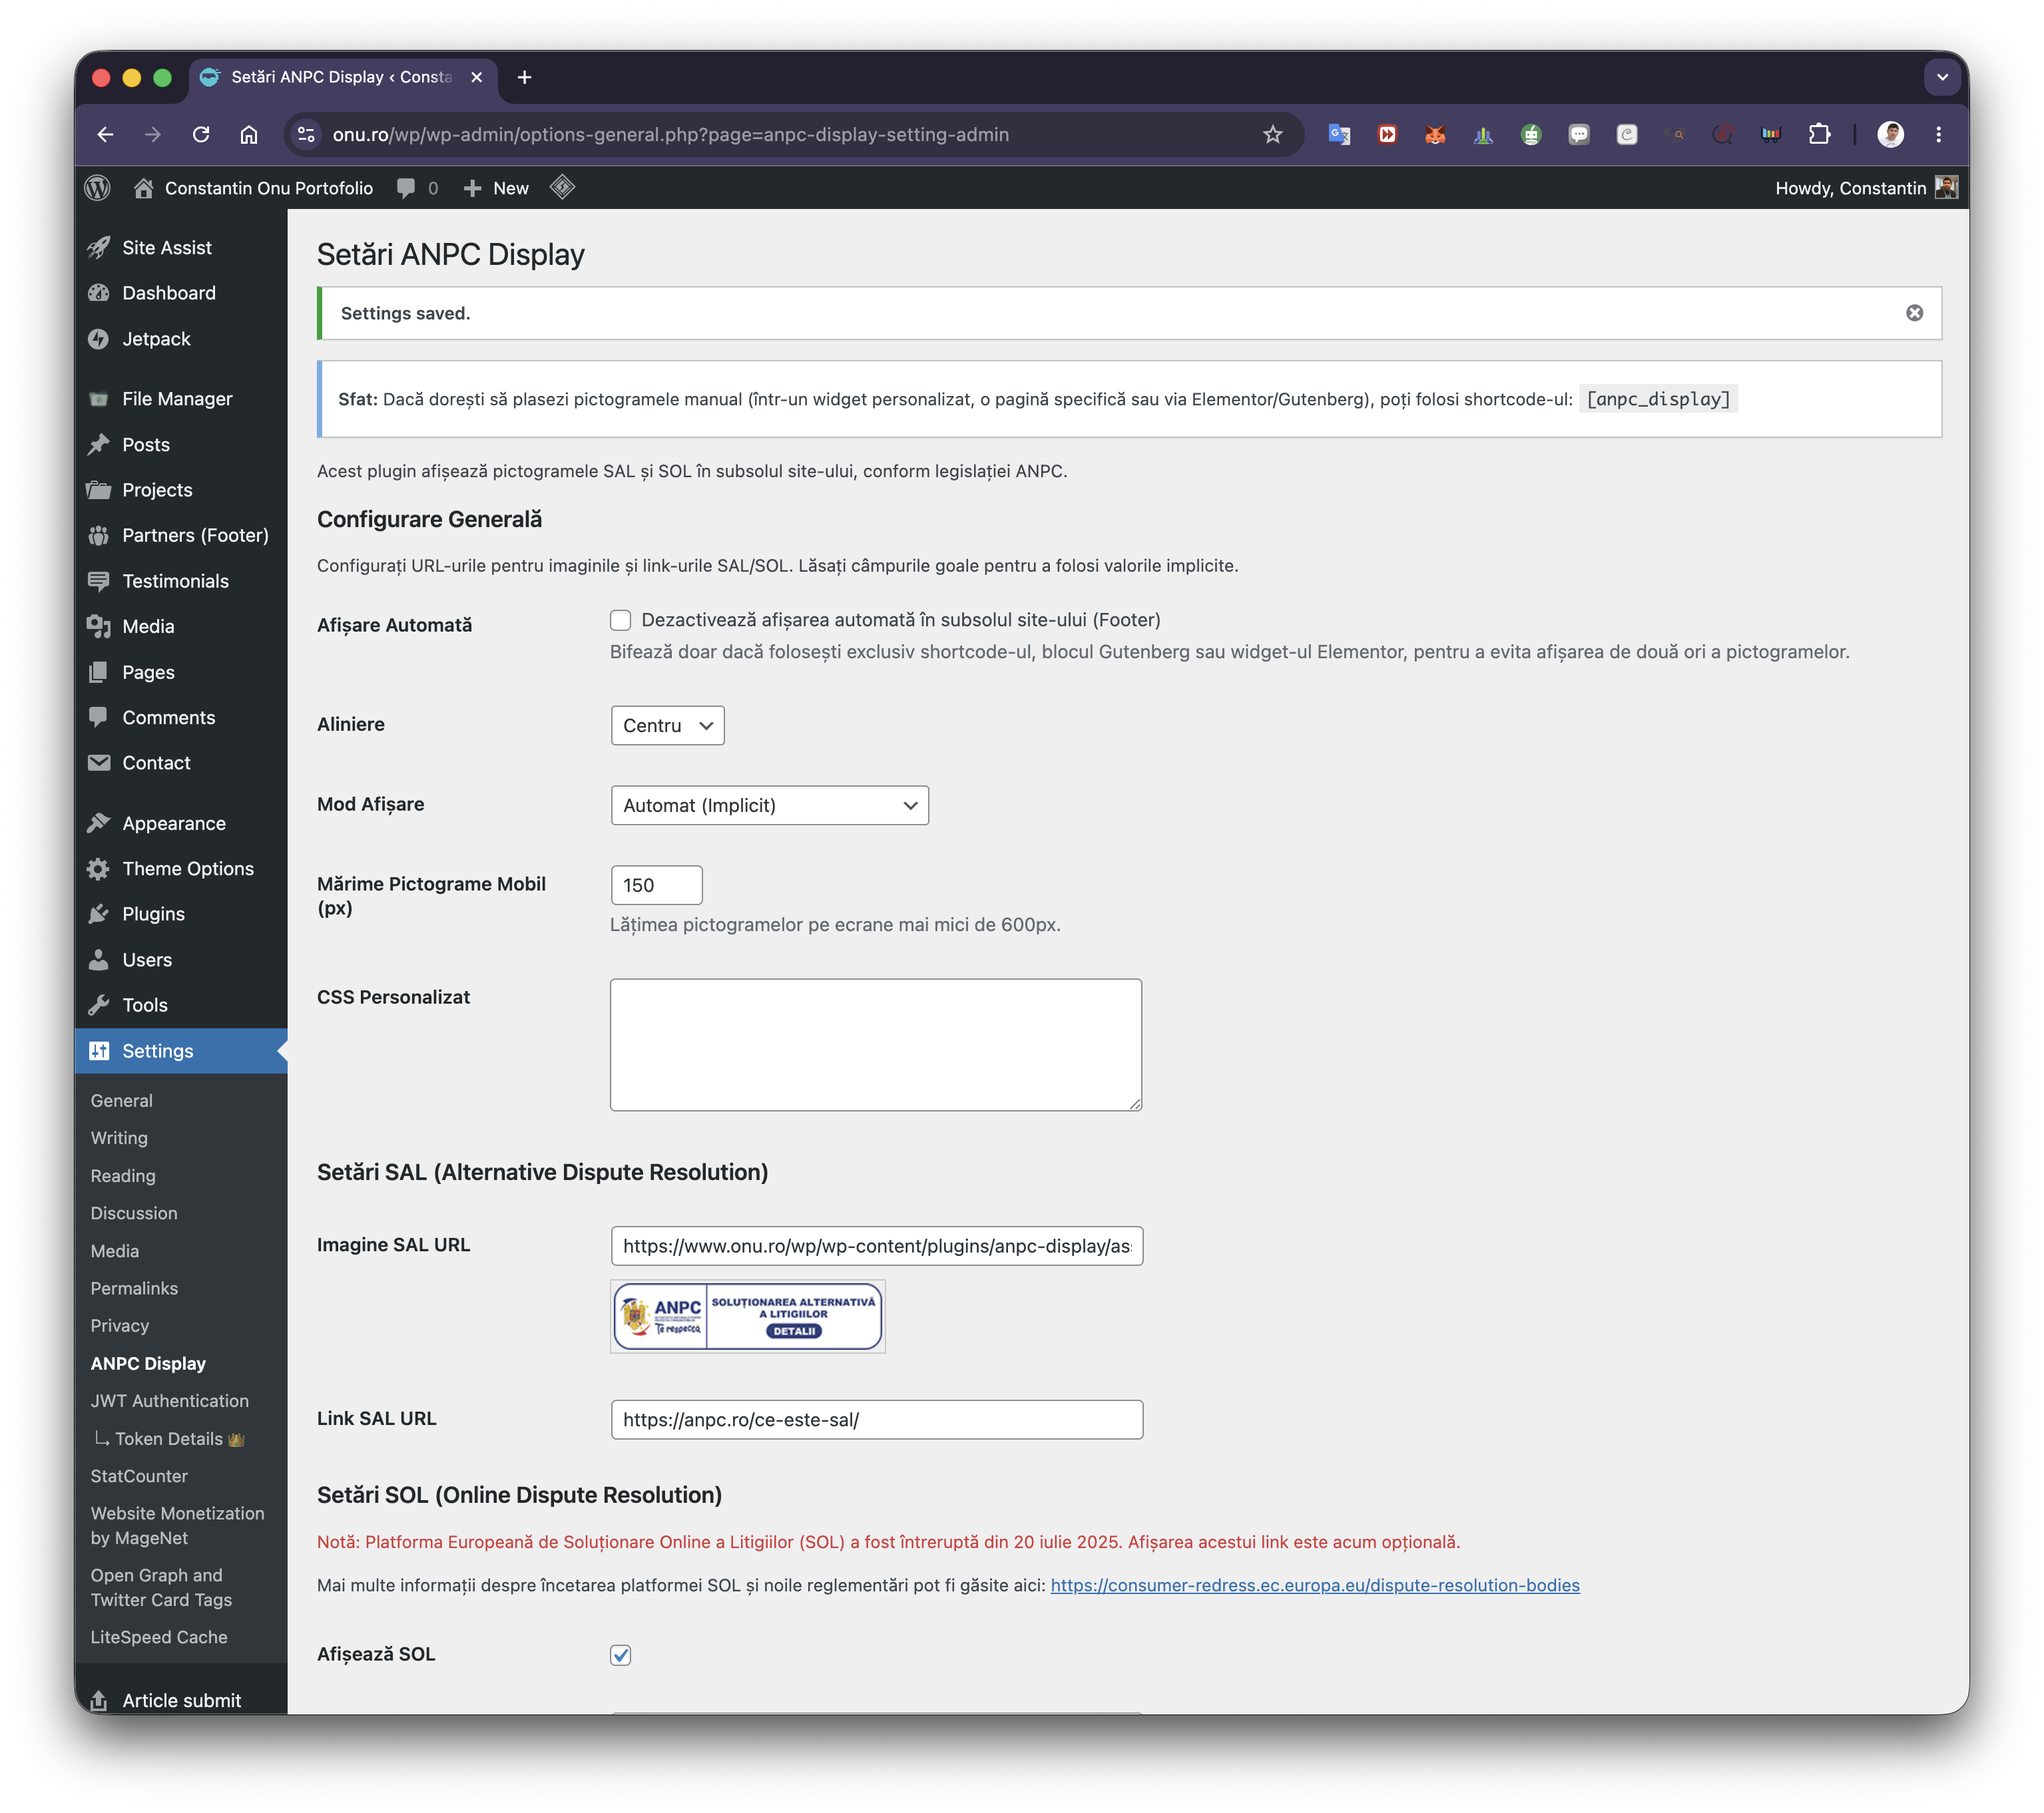
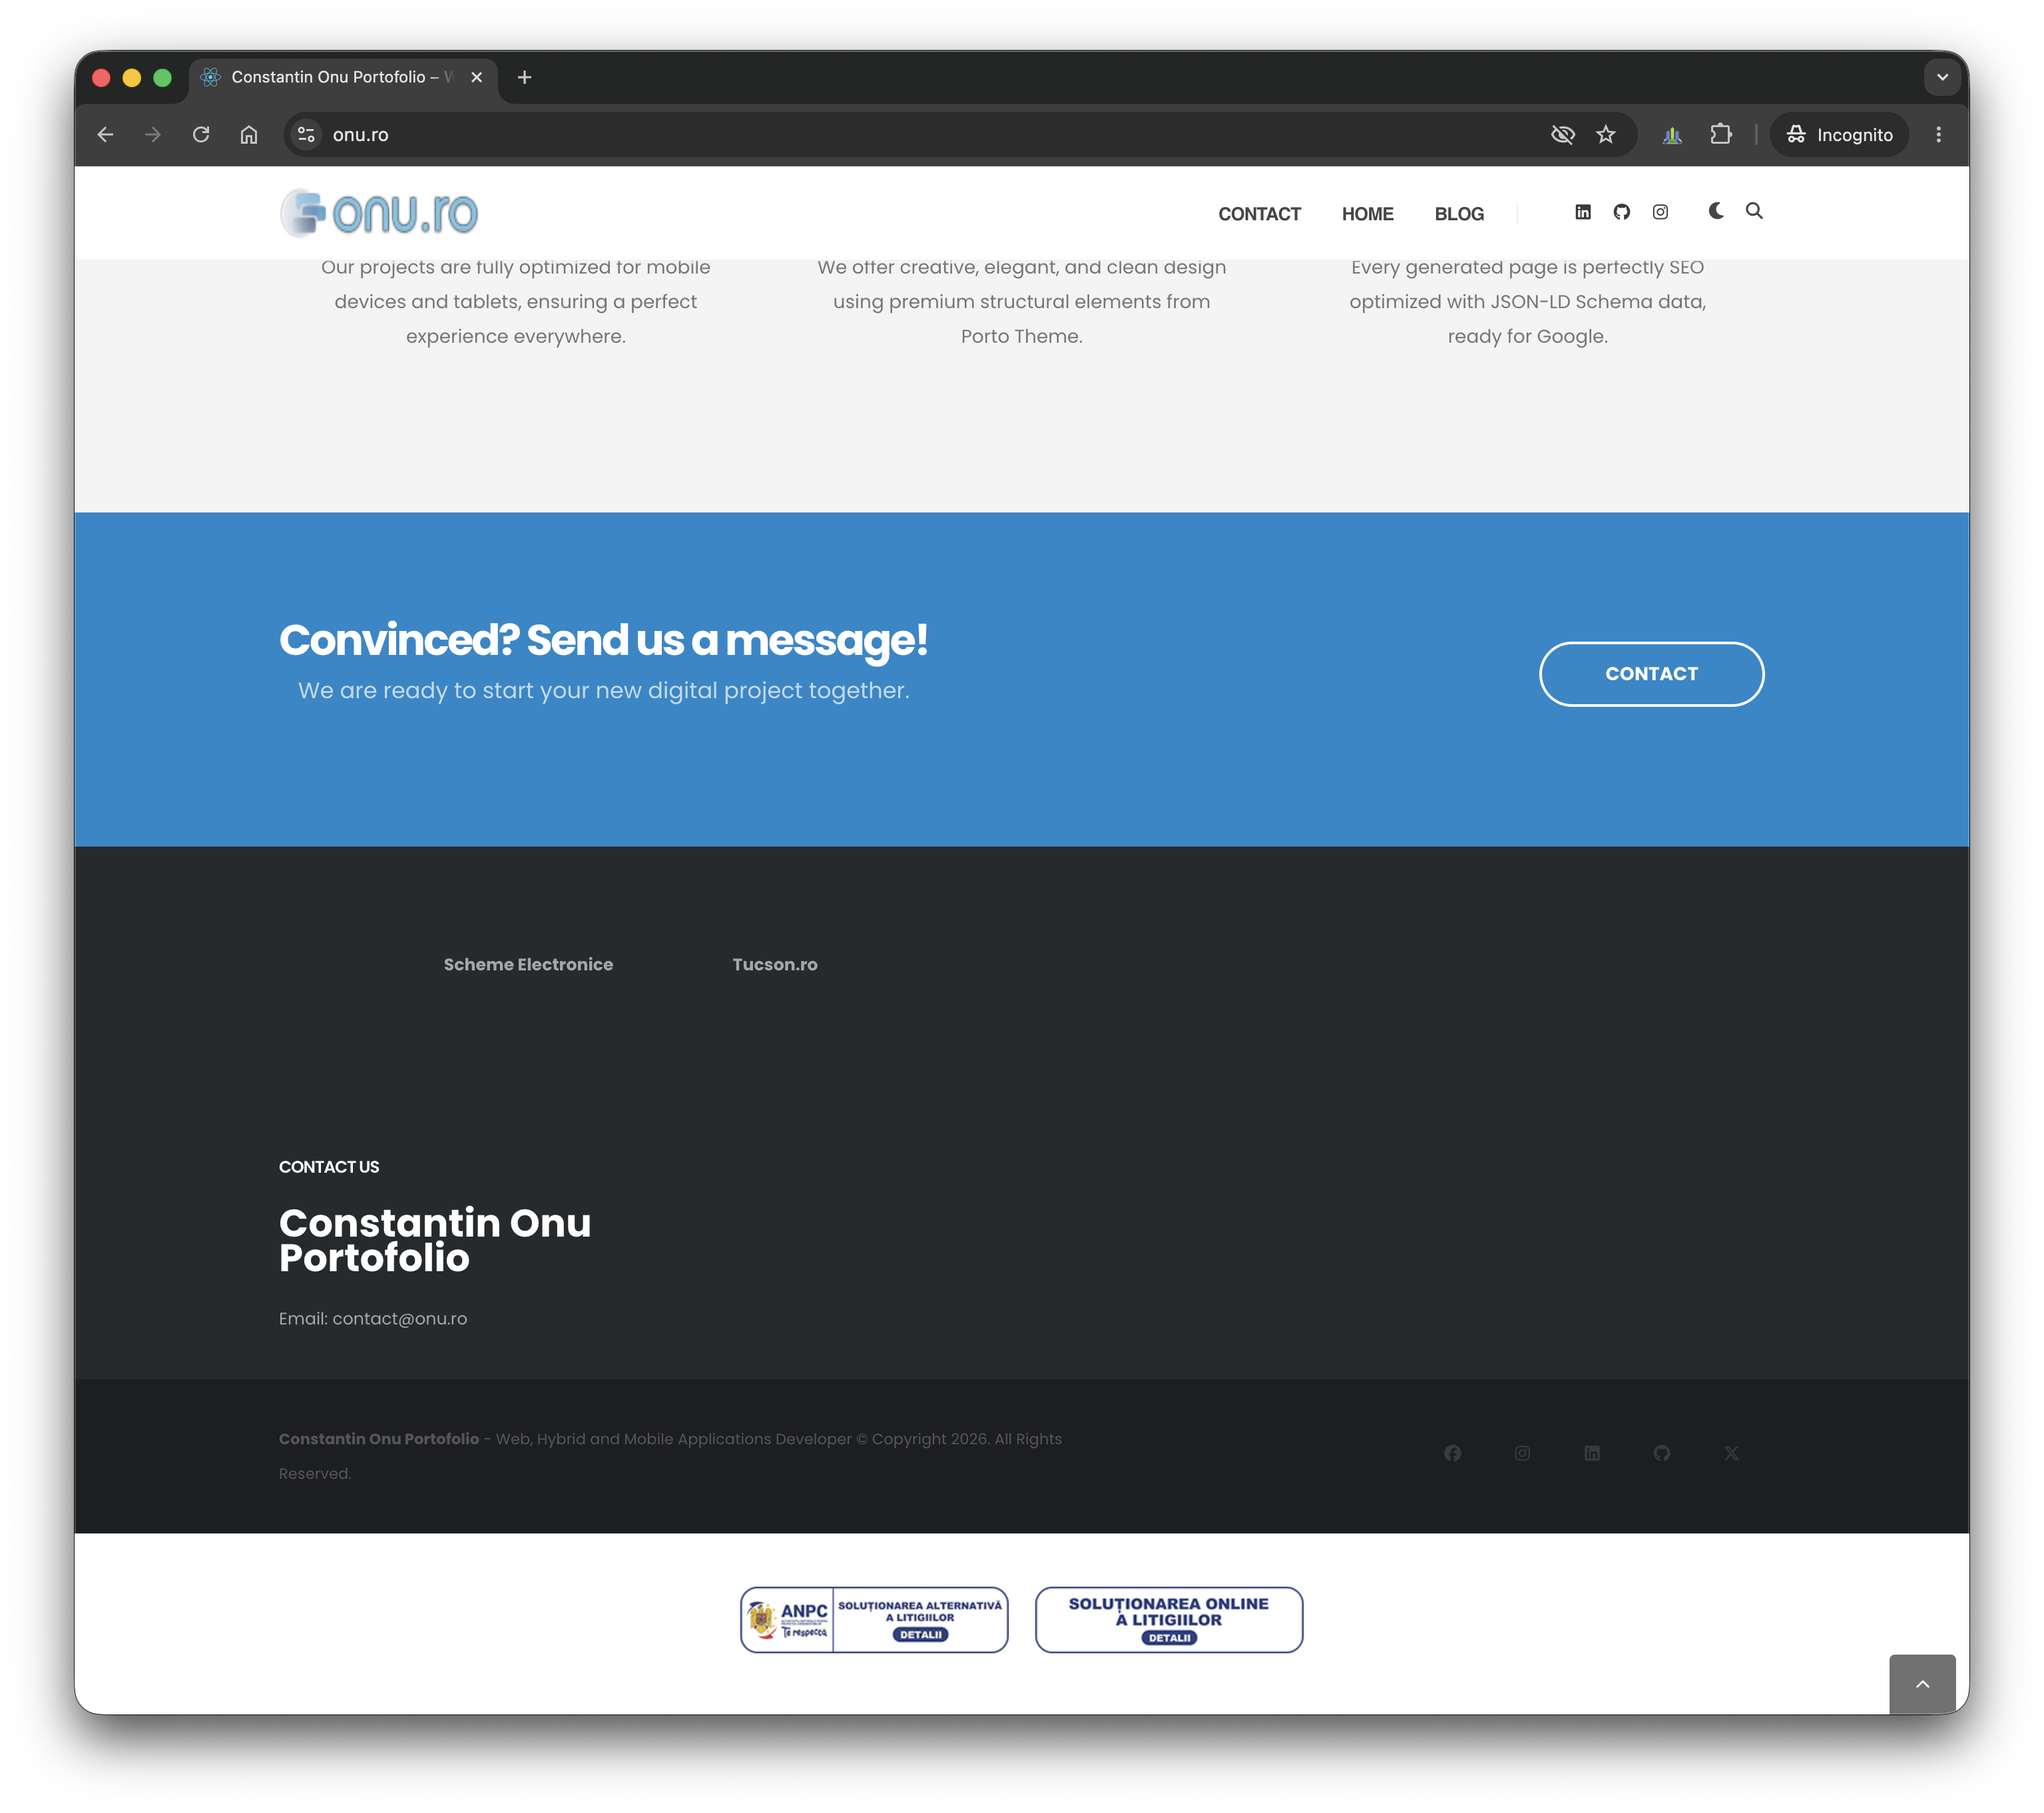
chore: move settings screenshot to last position (v1.3.5)

diff --git a/anpc-display.php b/anpc-display.php
@@ -3,7 +3,7 @@
  * Plugin Name: ANPC Display
  * Plugin URI:  https://wordpress.org/plugins/anpc-display
  * Description: Automatically displays the mandatory SAL and SOL links and icons for online stores in Romania. (Afișează automat link-urile și pictogramele SAL și SOL obligatorii pentru magazinele online din România).
- * Version:     1.3.4
+ * Version:     1.3.5
  * Requires at least: 5.0
  * Requires PHP: 7.4
  * Author:      Constantin Onu
@@ -597,7 +597,7 @@ class ANPC_Display
 	{
 		$options = get_option('anpc_display_option_name');
 
-		wp_enqueue_style('anpc-display-style', plugin_dir_url(__FILE__) . 'assets/anpc-display.css', array(), '1.3.4');
+		wp_enqueue_style('anpc-display-style', plugin_dir_url(__FILE__) . 'assets/anpc-display.css', array(), '1.3.5');
 
 		$mobile_size = isset($options['mobile_icon_size']) ? absint($options['mobile_icon_size']) : 150;
 		$custom_css = isset($options['custom_css']) ? $options['custom_css'] : '';
@@ -649,7 +649,7 @@ class ANPC_Display
 			'anpc-display-block-js',
 			plugin_dir_url(__FILE__) . 'assets/js/block.js',
 			array('wp-blocks', 'wp-i18n', 'wp-element', 'wp-server-side-render'),
-			'1.3.4',
+			'1.3.5',
 			true
 		);
 
